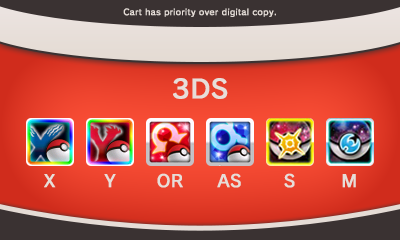
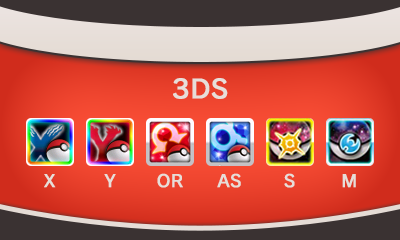
small ui changes

Changed region(s): [[0.3, 0.0292, 0.69, 0.0875]]

diff --git a/source/graphic.c b/source/graphic.c
@@ -287,7 +287,6 @@ void drawMenuTop(int game) {
 	
 	if (game < 6) {
 		sf2d_draw_texture(mainMenuTop, 0, 0);
-		printTitle("PKSM");
 	}
 	else 
 		sf2d_draw_texture(DSTopBG, 0, 0);
@@ -1030,30 +1029,30 @@ void printPKViewer(u8* mainbuf, int game, int currentEntry, int box, bool clonin
 		}
 		
 		if (getPokedexNumber(pkmn)) {
-			sftd_draw_text(fontBold12, 86, 33, GOLD, 12, pokemon[getPokedexNumber(pkmn)]);
+			sftd_draw_text(fontBold12, 86, 33, WHITE, 12, pokemon[getPokedexNumber(pkmn)]);
 			
 			char* level = (char*)malloc(4 * sizeof(char));
 			snprintf(level, 4, "%u", getLevel(pkmn));
-			sftd_draw_text(fontBold12, 86, 48, GOLD, 12, level);
+			sftd_draw_text(fontBold12, 86, 48, WHITE, 12, level);
 			free(level);
 			
 			char *ot_name = (char*)malloc(0x17 * sizeof(char));
-			sftd_draw_text(fontBold12, 86, 63, GOLD, 12, getOT(pkmn, ot_name));
+			sftd_draw_text(fontBold12, 86, 63, WHITE, 12, getOT(pkmn, ot_name));
 			free(ot_name);
 			
 			char *nick = (char*)malloc(26 * sizeof(char));
-			sftd_draw_text(fontBold12, 86, 78, GOLD, 12, getNickname(pkmn, nick));
+			sftd_draw_text(fontBold12, 86, 78, WHITE, 12, getNickname(pkmn, nick));
 			free(nick);
 			
-			sftd_draw_text(fontBold12, 86, 93, GOLD, 12, natures[getNature(pkmn)]);
-			sftd_draw_text(fontBold12, 86, 108, GOLD, 12, abilities[getAbility(pkmn)]);
-			sftd_draw_text(fontBold12, 86, 123, GOLD, 12, items[getItem(pkmn)]);
-			sftd_draw_text(fontBold12, 86, 138, GOLD, 12, isShiny(pkmn) ? "Yes" : "No");
-			sftd_draw_text(fontBold12, 86, 153, GOLD, 12, isInfected(pkmn) ? "Yes" : "No");
-			sftd_draw_textf(fontBold12, 86, 168, GOLD, 12, "%u", getFriendship(pkmn));
-			sftd_draw_textf(fontBold12, 86, 183, GOLD, 12, "%u", getOTID(pkmn));
-			sftd_draw_textf(fontBold12, 86, 198, GOLD, 12, "%u", getSOTID(pkmn));
-			sftd_draw_text(fontBold12, 100, 213, GOLD, 12, hpList[getHPType(pkmn)]);
+			sftd_draw_text(fontBold12, 86, 93, WHITE, 12, natures[getNature(pkmn)]);
+			sftd_draw_text(fontBold12, 86, 108, WHITE, 12, abilities[getAbility(pkmn)]);
+			sftd_draw_text(fontBold12, 86, 123, WHITE, 12, items[getItem(pkmn)]);
+			sftd_draw_text(fontBold12, 86, 138, WHITE, 12, isShiny(pkmn) ? "Yes" : "No");
+			sftd_draw_text(fontBold12, 86, 153, WHITE, 12, isInfected(pkmn) ? "Yes" : "No");
+			sftd_draw_textf(fontBold12, 86, 168, WHITE, 12, "%u", getFriendship(pkmn));
+			sftd_draw_textf(fontBold12, 86, 183, WHITE, 12, "%u", getOTID(pkmn));
+			sftd_draw_textf(fontBold12, 86, 198, WHITE, 12, "%u", getSOTID(pkmn));
+			sftd_draw_text(fontBold12, 100, 213, WHITE, 12, hpList[getHPType(pkmn)]);
 			
 			int pos = 279;
 			int max = sftd_get_text_width(fontBold12, 12, "252");
@@ -1093,31 +1092,31 @@ void printPKViewer(u8* mainbuf, int game, int currentEntry, int box, bool clonin
 			snprintf(spa_stat, 4, "%d", getStat(pkmn, 4));
 			snprintf(spd_stat, 4, "%d", getStat(pkmn, 5));
 			snprintf(spe_stat, 4, "%d", getStat(pkmn, 3));
-			sftd_draw_text(fontBold12, pos + (max - sftd_get_text_width(fontBold12, 12, hp_iv)) / 2, 48, GOLD, 12, hp_iv);
-			sftd_draw_text(fontBold12, pos + (max - sftd_get_text_width(fontBold12, 12, atk_iv)) / 2, 63, GOLD, 12, atk_iv);
-			sftd_draw_text(fontBold12, pos + (max - sftd_get_text_width(fontBold12, 12, def_iv)) / 2, 78, GOLD, 12, def_iv);
-			sftd_draw_text(fontBold12, pos + (max - sftd_get_text_width(fontBold12, 12, spa_iv)) / 2, 93, GOLD, 12, spa_iv);
-			sftd_draw_text(fontBold12, pos + (max - sftd_get_text_width(fontBold12, 12, spd_iv)) / 2, 108, GOLD, 12, spd_iv);
-			sftd_draw_text(fontBold12, pos + (max - sftd_get_text_width(fontBold12, 12, spe_iv)) / 2, 123, GOLD, 12, spe_iv);
+			sftd_draw_text(fontBold12, pos + (max - sftd_get_text_width(fontBold12, 12, hp_iv)) / 2, 48, WHITE, 12, hp_iv);
+			sftd_draw_text(fontBold12, pos + (max - sftd_get_text_width(fontBold12, 12, atk_iv)) / 2, 63, WHITE, 12, atk_iv);
+			sftd_draw_text(fontBold12, pos + (max - sftd_get_text_width(fontBold12, 12, def_iv)) / 2, 78, WHITE, 12, def_iv);
+			sftd_draw_text(fontBold12, pos + (max - sftd_get_text_width(fontBold12, 12, spa_iv)) / 2, 93, WHITE, 12, spa_iv);
+			sftd_draw_text(fontBold12, pos + (max - sftd_get_text_width(fontBold12, 12, spd_iv)) / 2, 108, WHITE, 12, spd_iv);
+			sftd_draw_text(fontBold12, pos + (max - sftd_get_text_width(fontBold12, 12, spe_iv)) / 2, 123, WHITE, 12, spe_iv);
 			pos = 311;
-			sftd_draw_text(fontBold12, pos + (max - sftd_get_text_width(fontBold12, 12, hp_ev)) / 2, 48, GOLD, 12, hp_ev);
-			sftd_draw_text(fontBold12, pos + (max - sftd_get_text_width(fontBold12, 12, atk_ev)) / 2, 63, GOLD, 12, atk_ev);
-			sftd_draw_text(fontBold12, pos + (max - sftd_get_text_width(fontBold12, 12, def_ev)) / 2, 78, GOLD, 12, def_ev);
-			sftd_draw_text(fontBold12, pos + (max - sftd_get_text_width(fontBold12, 12, spa_ev)) / 2, 93, GOLD, 12, spa_ev);
-			sftd_draw_text(fontBold12, pos + (max - sftd_get_text_width(fontBold12, 12, spd_ev)) / 2, 108, GOLD, 12, spd_ev);
-			sftd_draw_text(fontBold12, pos + (max - sftd_get_text_width(fontBold12, 12, spe_ev)) / 2, 123, GOLD, 12, spe_ev);
+			sftd_draw_text(fontBold12, pos + (max - sftd_get_text_width(fontBold12, 12, hp_ev)) / 2, 48, WHITE, 12, hp_ev);
+			sftd_draw_text(fontBold12, pos + (max - sftd_get_text_width(fontBold12, 12, atk_ev)) / 2, 63, WHITE, 12, atk_ev);
+			sftd_draw_text(fontBold12, pos + (max - sftd_get_text_width(fontBold12, 12, def_ev)) / 2, 78, WHITE, 12, def_ev);
+			sftd_draw_text(fontBold12, pos + (max - sftd_get_text_width(fontBold12, 12, spa_ev)) / 2, 93, WHITE, 12, spa_ev);
+			sftd_draw_text(fontBold12, pos + (max - sftd_get_text_width(fontBold12, 12, spd_ev)) / 2, 108, WHITE, 12, spd_ev);
+			sftd_draw_text(fontBold12, pos + (max - sftd_get_text_width(fontBold12, 12, spe_ev)) / 2, 123, WHITE, 12, spe_ev);
 			pos = 354;
-			sftd_draw_text(fontBold12, pos + (max - sftd_get_text_width(fontBold12, 12, hp_stat)) / 2, 48, GOLD, 12, hp_stat);
-			sftd_draw_text(fontBold12, pos + (max - sftd_get_text_width(fontBold12, 12, atk_stat)) / 2, 63, GOLD, 12, atk_stat);
-			sftd_draw_text(fontBold12, pos + (max - sftd_get_text_width(fontBold12, 12, def_stat)) / 2, 78, GOLD, 12, def_stat);
-			sftd_draw_text(fontBold12, pos + (max - sftd_get_text_width(fontBold12, 12, spa_stat)) / 2, 93, GOLD, 12, spa_stat);
-			sftd_draw_text(fontBold12, pos + (max - sftd_get_text_width(fontBold12, 12, spd_stat)) / 2, 108, GOLD, 12, spd_stat);
-			sftd_draw_text(fontBold12, pos + (max - sftd_get_text_width(fontBold12, 12, spe_stat)) / 2, 123, GOLD, 12, spe_stat);
+			sftd_draw_text(fontBold12, pos + (max - sftd_get_text_width(fontBold12, 12, hp_stat)) / 2, 48, WHITE, 12, hp_stat);
+			sftd_draw_text(fontBold12, pos + (max - sftd_get_text_width(fontBold12, 12, atk_stat)) / 2, 63, WHITE, 12, atk_stat);
+			sftd_draw_text(fontBold12, pos + (max - sftd_get_text_width(fontBold12, 12, def_stat)) / 2, 78, WHITE, 12, def_stat);
+			sftd_draw_text(fontBold12, pos + (max - sftd_get_text_width(fontBold12, 12, spa_stat)) / 2, 93, WHITE, 12, spa_stat);
+			sftd_draw_text(fontBold12, pos + (max - sftd_get_text_width(fontBold12, 12, spd_stat)) / 2, 108, WHITE, 12, spd_stat);
+			sftd_draw_text(fontBold12, pos + (max - sftd_get_text_width(fontBold12, 12, spe_stat)) / 2, 123, WHITE, 12, spe_stat);
 			
 			int y_moves = 168;
 			for (int i = 0; i < 4; i++) {
 				if (getMove(pkmn, i)) {
-					sftd_draw_text(fontBold12, 216, y_moves, GOLD, 12, moves[getMove(pkmn, i)]);
+					sftd_draw_text(fontBold12, 216, y_moves, WHITE, 12, moves[getMove(pkmn, i)]);
 				}
 				y_moves += 15;
 			}
@@ -1247,26 +1246,26 @@ void printPKEditor(u8* pkmn, int game, bool speedy) {
 
 		char* level = (char*)malloc(4 * sizeof(char));
 		snprintf(level, 4, "%u", getLevel(pkmn));
-		//sftd_draw_text(fontBold12, 100 + (max - sftd_get_text_width(fontBold12, 12, level)) / 2, 41, GOLD, 12, level);
-		sftd_draw_text(fontBold12, 124 - sftd_get_text_width(fontBold12, 12, level), 41, GOLD, 12, level);
+		//sftd_draw_text(fontBold12, 100 + (max - sftd_get_text_width(fontBold12, 12, level)) / 2, 41, WHITE, 12, level);
+		sftd_draw_text(fontBold12, 124 - sftd_get_text_width(fontBold12, 12, level), 41, WHITE, 12, level);
 		free(level);
 			
-		sftd_draw_text(fontBold12, 124 - sftd_get_text_width(fontBold12, 12, natures[getNature(pkmn)]), 58, GOLD, 12, natures[getNature(pkmn)]);
-		sftd_draw_text(fontBold12, 124 - sftd_get_text_width(fontBold12, 12, abilities[getAbility(pkmn)]), 75, GOLD, 12, abilities[getAbility(pkmn)]);
+		sftd_draw_text(fontBold12, 124 - sftd_get_text_width(fontBold12, 12, natures[getNature(pkmn)]), 58, WHITE, 12, natures[getNature(pkmn)]);
+		sftd_draw_text(fontBold12, 124 - sftd_get_text_width(fontBold12, 12, abilities[getAbility(pkmn)]), 75, WHITE, 12, abilities[getAbility(pkmn)]);
 		sftd_draw_text(fontBold12, 124 - sftd_get_text_width(fontBold12, 12, items[getItem(pkmn)]), 92, WHITE, 12, items[getItem(pkmn)]);
-		sftd_draw_text(fontBold12, 124 - sftd_get_text_width(fontBold12, 12, isShiny(pkmn) ? "Yes" : "No"), 109, GOLD, 12, isShiny(pkmn) ? "Yes" : "No");
-		sftd_draw_text(fontBold12, 124 - sftd_get_text_width(fontBold12, 12, isInfected(pkmn) ? "Yes" : "No"), 126, GOLD, 12, isInfected(pkmn) ? "Yes" : "No");
+		sftd_draw_text(fontBold12, 124 - sftd_get_text_width(fontBold12, 12, isShiny(pkmn) ? "Yes" : "No"), 109, WHITE, 12, isShiny(pkmn) ? "Yes" : "No");
+		sftd_draw_text(fontBold12, 124 - sftd_get_text_width(fontBold12, 12, isInfected(pkmn) ? "Yes" : "No"), 126, WHITE, 12, isInfected(pkmn) ? "Yes" : "No");
 		
 		char* friendship = (char*)malloc(4 * sizeof(char));
 		snprintf(friendship, 4, "%u", getFriendship(pkmn));
-		sftd_draw_text(fontBold12, 124 + (max - sftd_get_text_width(fontBold12, 12, friendship)) / 2, 143, GOLD, 12, friendship);
+		sftd_draw_text(fontBold12, 124 + (max - sftd_get_text_width(fontBold12, 12, friendship)) / 2, 143, WHITE, 12, friendship);
 		free(friendship);
 		
 		char *nick = (char*)malloc(26 * sizeof(char));
-		sftd_draw_text(fontBold12, 72, 160, GOLD, 12, getNickname(pkmn, nick));
+		sftd_draw_text(fontBold12, 72, 160, WHITE, 12, getNickname(pkmn, nick));
 		free(nick);
 		
-		sftd_draw_text(fontBold12, 159 - sftd_get_text_width(fontBold12, 12, hpList[getHPType(pkmn)]), 177, GOLD, 12, hpList[getHPType(pkmn)]);
+		sftd_draw_text(fontBold12, 159 - sftd_get_text_width(fontBold12, 12, hpList[getHPType(pkmn)]), 177, WHITE, 12, hpList[getHPType(pkmn)]);
 		
 		char* hp_iv = (char*)malloc(3 * sizeof(char));
 		char* atk_iv = (char*)malloc(3 * sizeof(char));
@@ -1294,19 +1293,19 @@ void printPKEditor(u8* pkmn, int game, bool speedy) {
 		snprintf(spe_ev, 4, "%d", getEV(pkmn, 3));
 		
 		int pos = 219;
-		sftd_draw_text(fontBold12, pos + (max - sftd_get_text_width(fontBold12, 12, hp_iv)) / 2, 27, GOLD, 12, hp_iv);
-		sftd_draw_text(fontBold12, pos + (max - sftd_get_text_width(fontBold12, 12, atk_iv)) / 2, 44, GOLD, 12, atk_iv);
-		sftd_draw_text(fontBold12, pos + (max - sftd_get_text_width(fontBold12, 12, def_iv)) / 2, 61, GOLD, 12, def_iv);
-		sftd_draw_text(fontBold12, pos + (max - sftd_get_text_width(fontBold12, 12, spa_iv)) / 2, 78, GOLD, 12, spa_iv);
-		sftd_draw_text(fontBold12, pos + (max - sftd_get_text_width(fontBold12, 12, spd_iv)) / 2, 95, GOLD, 12, spd_iv);
-		sftd_draw_text(fontBold12, pos + (max - sftd_get_text_width(fontBold12, 12, spe_iv)) / 2, 112, GOLD, 12, spe_iv);
+		sftd_draw_text(fontBold12, pos + (max - sftd_get_text_width(fontBold12, 12, hp_iv)) / 2, 27, WHITE, 12, hp_iv);
+		sftd_draw_text(fontBold12, pos + (max - sftd_get_text_width(fontBold12, 12, atk_iv)) / 2, 44, WHITE, 12, atk_iv);
+		sftd_draw_text(fontBold12, pos + (max - sftd_get_text_width(fontBold12, 12, def_iv)) / 2, 61, WHITE, 12, def_iv);
+		sftd_draw_text(fontBold12, pos + (max - sftd_get_text_width(fontBold12, 12, spa_iv)) / 2, 78, WHITE, 12, spa_iv);
+		sftd_draw_text(fontBold12, pos + (max - sftd_get_text_width(fontBold12, 12, spd_iv)) / 2, 95, WHITE, 12, spd_iv);
+		sftd_draw_text(fontBold12, pos + (max - sftd_get_text_width(fontBold12, 12, spe_iv)) / 2, 112, WHITE, 12, spe_iv);
 		pos = 270;
-		sftd_draw_text(fontBold12, pos + (max - sftd_get_text_width(fontBold12, 12, hp_ev)) / 2, 27, GOLD, 12, hp_ev);
-		sftd_draw_text(fontBold12, pos + (max - sftd_get_text_width(fontBold12, 12, atk_ev)) / 2, 44, GOLD, 12, atk_ev);
-		sftd_draw_text(fontBold12, pos + (max - sftd_get_text_width(fontBold12, 12, def_ev)) / 2, 61, GOLD, 12, def_ev);
-		sftd_draw_text(fontBold12, pos + (max - sftd_get_text_width(fontBold12, 12, spa_ev)) / 2, 78, GOLD, 12, spa_ev);
-		sftd_draw_text(fontBold12, pos + (max - sftd_get_text_width(fontBold12, 12, spd_ev)) / 2, 95, GOLD, 12, spd_ev);
-		sftd_draw_text(fontBold12, pos + (max - sftd_get_text_width(fontBold12, 12, spe_ev)) / 2, 112, GOLD, 12, spe_ev);
+		sftd_draw_text(fontBold12, pos + (max - sftd_get_text_width(fontBold12, 12, hp_ev)) / 2, 27, WHITE, 12, hp_ev);
+		sftd_draw_text(fontBold12, pos + (max - sftd_get_text_width(fontBold12, 12, atk_ev)) / 2, 44, WHITE, 12, atk_ev);
+		sftd_draw_text(fontBold12, pos + (max - sftd_get_text_width(fontBold12, 12, def_ev)) / 2, 61, WHITE, 12, def_ev);
+		sftd_draw_text(fontBold12, pos + (max - sftd_get_text_width(fontBold12, 12, spa_ev)) / 2, 78, WHITE, 12, spa_ev);
+		sftd_draw_text(fontBold12, pos + (max - sftd_get_text_width(fontBold12, 12, spd_ev)) / 2, 95, WHITE, 12, spd_ev);
+		sftd_draw_text(fontBold12, pos + (max - sftd_get_text_width(fontBold12, 12, spe_ev)) / 2, 112, WHITE, 12, spe_ev);
 		
 		y_desc = 27;
 		for (int i = 0; i < 6; i++) {
@@ -1375,30 +1374,30 @@ void printPKBank(u8* bankbuf, u8* mainbuf, u8* pkmnbuf, int game, int currentEnt
 		}
 		
 		if (getPokedexNumber(pkmn)) {
-			sftd_draw_text(fontBold12, 86, 33, GOLD, 12, pokemon[getPokedexNumber(pkmn)]);
+			sftd_draw_text(fontBold12, 86, 33, WHITE, 12, pokemon[getPokedexNumber(pkmn)]);
 			
 			char* level = (char*)malloc(4 * sizeof(char));
 			snprintf(level, 4, "%u", getLevel(pkmn));
-			sftd_draw_text(fontBold12, 86, 48, GOLD, 12, level);
+			sftd_draw_text(fontBold12, 86, 48, WHITE, 12, level);
 			free(level);
 			
 			char *ot_name = (char*)malloc(0x17 * sizeof(char));
-			sftd_draw_text(fontBold12, 86, 63, GOLD, 12, getOT(pkmn, ot_name));
+			sftd_draw_text(fontBold12, 86, 63, WHITE, 12, getOT(pkmn, ot_name));
 			free(ot_name);
 			
 			char *nick = (char*)malloc(26 * sizeof(char));
-			sftd_draw_text(fontBold12, 86, 78, GOLD, 12, getNickname(pkmn, nick));
+			sftd_draw_text(fontBold12, 86, 78, WHITE, 12, getNickname(pkmn, nick));
 			free(nick);
 			
-			sftd_draw_text(fontBold12, 86, 93, GOLD, 12, natures[getNature(pkmn)]);
-			sftd_draw_text(fontBold12, 86, 108, GOLD, 12, abilities[getAbility(pkmn)]);
-			sftd_draw_text(fontBold12, 86, 123, GOLD, 12, items[getItem(pkmn)]);
-			sftd_draw_text(fontBold12, 86, 138, GOLD, 12, isShiny(pkmn) ? "Yes" : "No");
-			sftd_draw_text(fontBold12, 86, 153, GOLD, 12, isInfected(pkmn) ? "Yes" : "No");
-			sftd_draw_textf(fontBold12, 86, 168, GOLD, 12, "%u", getFriendship(pkmn));
-			sftd_draw_textf(fontBold12, 86, 183, GOLD, 12, "%u", getOTID(pkmn));
-			sftd_draw_textf(fontBold12, 86, 198, GOLD, 12, "%u", getSOTID(pkmn));
-			sftd_draw_text(fontBold12, 100, 213, GOLD, 12, hpList[getHPType(pkmn)]);
+			sftd_draw_text(fontBold12, 86, 93, WHITE, 12, natures[getNature(pkmn)]);
+			sftd_draw_text(fontBold12, 86, 108, WHITE, 12, abilities[getAbility(pkmn)]);
+			sftd_draw_text(fontBold12, 86, 123, WHITE, 12, items[getItem(pkmn)]);
+			sftd_draw_text(fontBold12, 86, 138, WHITE, 12, isShiny(pkmn) ? "Yes" : "No");
+			sftd_draw_text(fontBold12, 86, 153, WHITE, 12, isInfected(pkmn) ? "Yes" : "No");
+			sftd_draw_textf(fontBold12, 86, 168, WHITE, 12, "%u", getFriendship(pkmn));
+			sftd_draw_textf(fontBold12, 86, 183, WHITE, 12, "%u", getOTID(pkmn));
+			sftd_draw_textf(fontBold12, 86, 198, WHITE, 12, "%u", getSOTID(pkmn));
+			sftd_draw_text(fontBold12, 100, 213, WHITE, 12, hpList[getHPType(pkmn)]);
 			
 			int pos = 279;
 			int max = sftd_get_text_width(fontBold12, 12, "252");
@@ -1438,31 +1437,31 @@ void printPKBank(u8* bankbuf, u8* mainbuf, u8* pkmnbuf, int game, int currentEnt
 			snprintf(spa_stat, 4, "%d", getStat(pkmn, 4));
 			snprintf(spd_stat, 4, "%d", getStat(pkmn, 5));
 			snprintf(spe_stat, 4, "%d", getStat(pkmn, 3));
-			sftd_draw_text(fontBold12, pos + (max - sftd_get_text_width(fontBold12, 12, hp_iv)) / 2, 48, GOLD, 12, hp_iv);
-			sftd_draw_text(fontBold12, pos + (max - sftd_get_text_width(fontBold12, 12, atk_iv)) / 2, 63, GOLD, 12, atk_iv);
-			sftd_draw_text(fontBold12, pos + (max - sftd_get_text_width(fontBold12, 12, def_iv)) / 2, 78, GOLD, 12, def_iv);
-			sftd_draw_text(fontBold12, pos + (max - sftd_get_text_width(fontBold12, 12, spa_iv)) / 2, 93, GOLD, 12, spa_iv);
-			sftd_draw_text(fontBold12, pos + (max - sftd_get_text_width(fontBold12, 12, spd_iv)) / 2, 108, GOLD, 12, spd_iv);
-			sftd_draw_text(fontBold12, pos + (max - sftd_get_text_width(fontBold12, 12, spe_iv)) / 2, 123, GOLD, 12, spe_iv);
+			sftd_draw_text(fontBold12, pos + (max - sftd_get_text_width(fontBold12, 12, hp_iv)) / 2, 48, WHITE, 12, hp_iv);
+			sftd_draw_text(fontBold12, pos + (max - sftd_get_text_width(fontBold12, 12, atk_iv)) / 2, 63, WHITE, 12, atk_iv);
+			sftd_draw_text(fontBold12, pos + (max - sftd_get_text_width(fontBold12, 12, def_iv)) / 2, 78, WHITE, 12, def_iv);
+			sftd_draw_text(fontBold12, pos + (max - sftd_get_text_width(fontBold12, 12, spa_iv)) / 2, 93, WHITE, 12, spa_iv);
+			sftd_draw_text(fontBold12, pos + (max - sftd_get_text_width(fontBold12, 12, spd_iv)) / 2, 108, WHITE, 12, spd_iv);
+			sftd_draw_text(fontBold12, pos + (max - sftd_get_text_width(fontBold12, 12, spe_iv)) / 2, 123, WHITE, 12, spe_iv);
 			pos = 311;
-			sftd_draw_text(fontBold12, pos + (max - sftd_get_text_width(fontBold12, 12, hp_ev)) / 2, 48, GOLD, 12, hp_ev);
-			sftd_draw_text(fontBold12, pos + (max - sftd_get_text_width(fontBold12, 12, atk_ev)) / 2, 63, GOLD, 12, atk_ev);
-			sftd_draw_text(fontBold12, pos + (max - sftd_get_text_width(fontBold12, 12, def_ev)) / 2, 78, GOLD, 12, def_ev);
-			sftd_draw_text(fontBold12, pos + (max - sftd_get_text_width(fontBold12, 12, spa_ev)) / 2, 93, GOLD, 12, spa_ev);
-			sftd_draw_text(fontBold12, pos + (max - sftd_get_text_width(fontBold12, 12, spd_ev)) / 2, 108, GOLD, 12, spd_ev);
-			sftd_draw_text(fontBold12, pos + (max - sftd_get_text_width(fontBold12, 12, spe_ev)) / 2, 123, GOLD, 12, spe_ev);
+			sftd_draw_text(fontBold12, pos + (max - sftd_get_text_width(fontBold12, 12, hp_ev)) / 2, 48, WHITE, 12, hp_ev);
+			sftd_draw_text(fontBold12, pos + (max - sftd_get_text_width(fontBold12, 12, atk_ev)) / 2, 63, WHITE, 12, atk_ev);
+			sftd_draw_text(fontBold12, pos + (max - sftd_get_text_width(fontBold12, 12, def_ev)) / 2, 78, WHITE, 12, def_ev);
+			sftd_draw_text(fontBold12, pos + (max - sftd_get_text_width(fontBold12, 12, spa_ev)) / 2, 93, WHITE, 12, spa_ev);
+			sftd_draw_text(fontBold12, pos + (max - sftd_get_text_width(fontBold12, 12, spd_ev)) / 2, 108, WHITE, 12, spd_ev);
+			sftd_draw_text(fontBold12, pos + (max - sftd_get_text_width(fontBold12, 12, spe_ev)) / 2, 123, WHITE, 12, spe_ev);
 			pos = 354;
-			sftd_draw_text(fontBold12, pos + (max - sftd_get_text_width(fontBold12, 12, hp_stat)) / 2, 48, GOLD, 12, hp_stat);
-			sftd_draw_text(fontBold12, pos + (max - sftd_get_text_width(fontBold12, 12, atk_stat)) / 2, 63, GOLD, 12, atk_stat);
-			sftd_draw_text(fontBold12, pos + (max - sftd_get_text_width(fontBold12, 12, def_stat)) / 2, 78, GOLD, 12, def_stat);
-			sftd_draw_text(fontBold12, pos + (max - sftd_get_text_width(fontBold12, 12, spa_stat)) / 2, 93, GOLD, 12, spa_stat);
-			sftd_draw_text(fontBold12, pos + (max - sftd_get_text_width(fontBold12, 12, spd_stat)) / 2, 108, GOLD, 12, spd_stat);
-			sftd_draw_text(fontBold12, pos + (max - sftd_get_text_width(fontBold12, 12, spe_stat)) / 2, 123, GOLD, 12, spe_stat);
+			sftd_draw_text(fontBold12, pos + (max - sftd_get_text_width(fontBold12, 12, hp_stat)) / 2, 48, WHITE, 12, hp_stat);
+			sftd_draw_text(fontBold12, pos + (max - sftd_get_text_width(fontBold12, 12, atk_stat)) / 2, 63, WHITE, 12, atk_stat);
+			sftd_draw_text(fontBold12, pos + (max - sftd_get_text_width(fontBold12, 12, def_stat)) / 2, 78, WHITE, 12, def_stat);
+			sftd_draw_text(fontBold12, pos + (max - sftd_get_text_width(fontBold12, 12, spa_stat)) / 2, 93, WHITE, 12, spa_stat);
+			sftd_draw_text(fontBold12, pos + (max - sftd_get_text_width(fontBold12, 12, spd_stat)) / 2, 108, WHITE, 12, spd_stat);
+			sftd_draw_text(fontBold12, pos + (max - sftd_get_text_width(fontBold12, 12, spe_stat)) / 2, 123, WHITE, 12, spe_stat);
 			
 			int y_moves = 168;
 			for (int i = 0; i < 4; i++) {
 				if (getMove(pkmn, i)) {
-					sftd_draw_text(fontBold12, 216, y_moves, GOLD, 12, moves[getMove(pkmn, i)]);
+					sftd_draw_text(fontBold12, 216, y_moves, WHITE, 12, moves[getMove(pkmn, i)]);
 				}
 				y_moves += 15;
 			}

diff --git a/source/graphic.h b/source/graphic.h
@@ -29,7 +29,6 @@
 #define AZZURRO RGBA8(0x33, 0x99, 0xFF, 0xFF)
 #define TRASPWHITE RGBA8(255,255,255,170)
 #define DARKBLUE RGBA8(0, 0, 102, 0xFF)
-#define GOLD RGBA8(254, 234, 60, 255)
 #define DS RGBA8(48, 48, 48, 255)
 
 #define FILL 5
